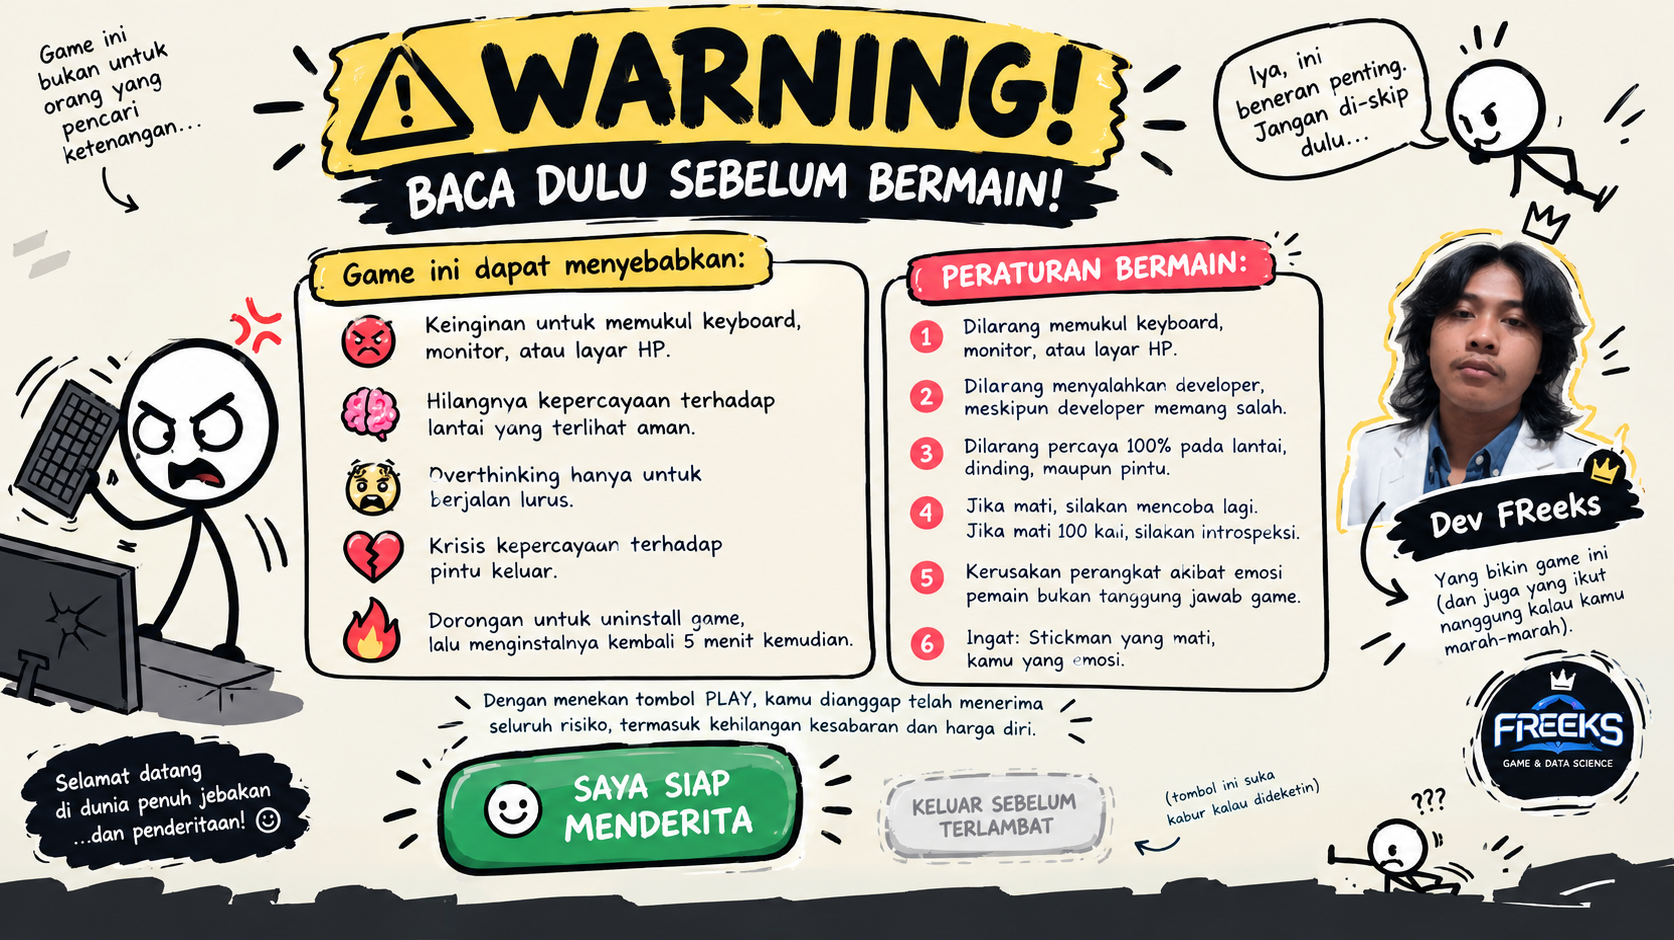
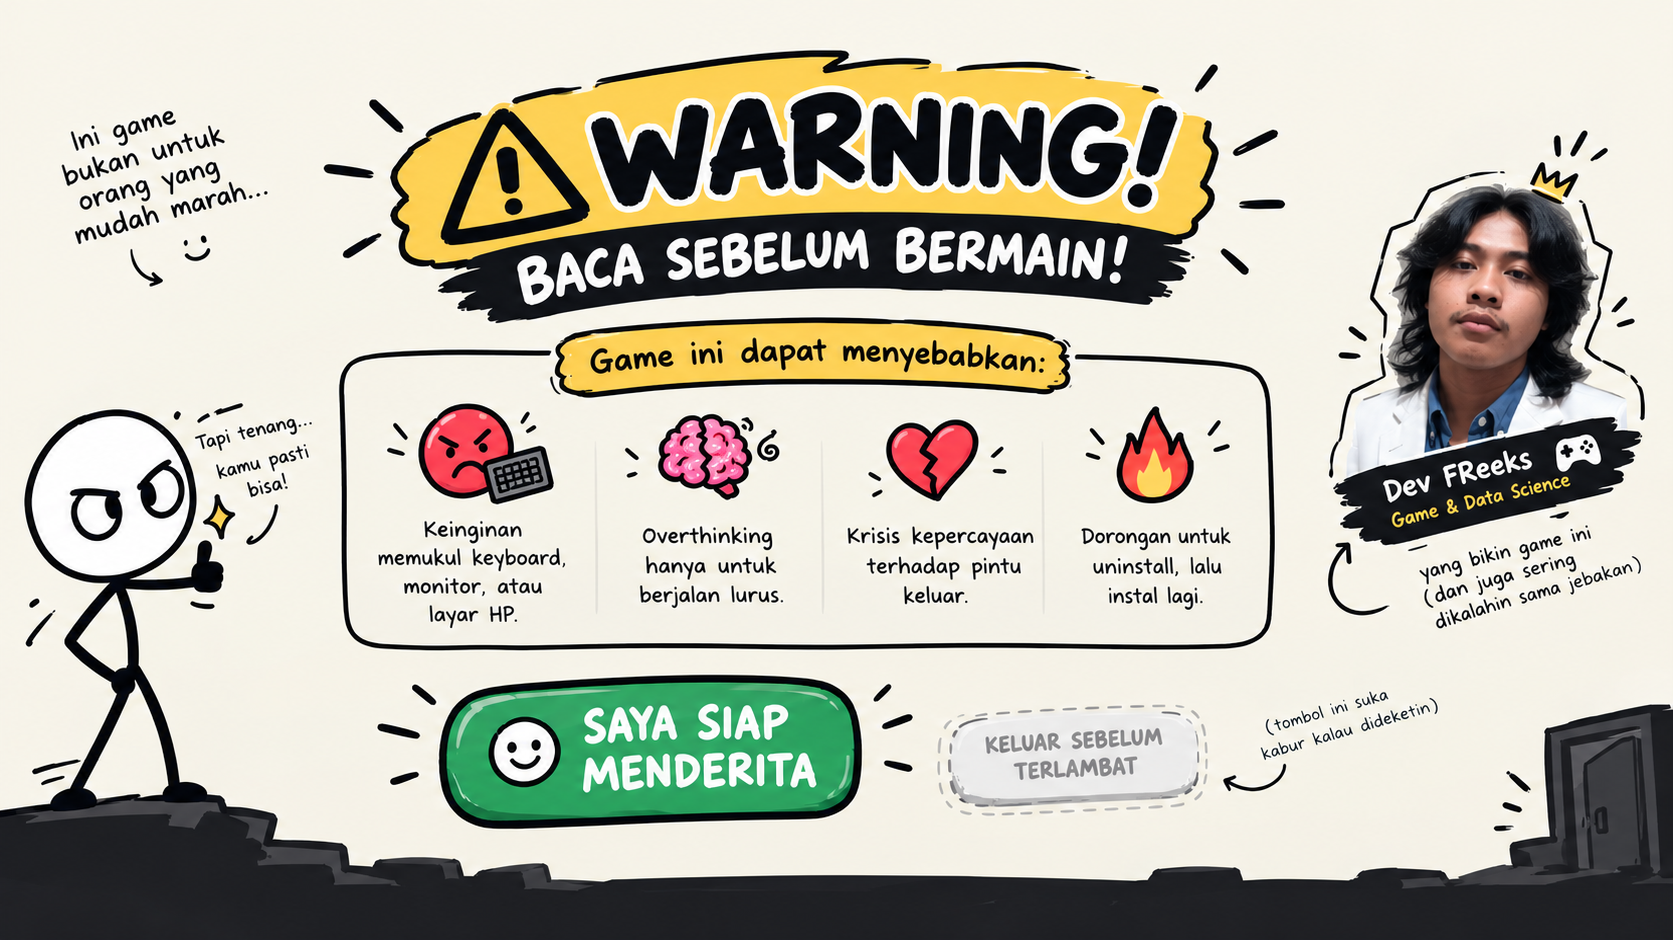
feat: perbarui aset dan tata letak tombol layar intro dengan gambar Peringatan Game Siap Menderita terbaru

diff --git a/src/scenes/IntroScene.ts b/src/scenes/IntroScene.ts
@@ -11,10 +11,10 @@ export class IntroScene {
   private timer = 0;
 
   // Tombol troll "KELUAR SEBELUM TERLAMBAT"
-  private escapeX = 508;
-  private escapeY = 442;
-  private escapeTargetX = 508;
-  private escapeTargetY = 442;
+  private escapeX = 518;
+  private escapeY = 404;
+  private escapeTargetX = 518;
+  private escapeTargetY = 404;
   private trollDodges = 0;
   private showTrollMessage = false;
   private trollMessageTimer = 0;
@@ -22,12 +22,12 @@ export class IntroScene {
   constructor(audio: AudioManager) {
     this.audio = audio;
     this.img = new Image();
-    this.img.src = '/intro.png';
+    this.img.src = encodeURI('/Peringatan Game_ Siap Menderita!.png');
     this.img.onload = () => {
       this.isLoaded = true;
     };
     this.img.onerror = () => {
-      this.img.src = '/Peringatan Game_ Siap Menderita_.png';
+      this.img.src = '/intro.png';
     };
   }
 
@@ -44,21 +44,21 @@ export class IntroScene {
       }
     }
 
-    // Efek troll: tombol "KELUAR SEBELUM TERLAMBAT" kabur saat kursor mendekat (< 65px)
-    const escapeCenterX = this.escapeX + 62;
-    const escapeCenterY = this.escapeY + 25;
+    // Efek troll: tombol "KELUAR SEBELUM TERLAMBAT" kabur saat kursor mendekat (< 75px)
+    const escapeCenterX = this.escapeX + 98;
+    const escapeCenterY = this.escapeY + 32;
     const dist = Math.hypot(pointerX - escapeCenterX, pointerY - escapeCenterY);
 
-    if (dist < 65) {
+    if (dist < 75) {
       const angles = [Math.PI * 0.25, Math.PI * 0.75, -Math.PI * 0.25, -Math.PI * 0.75, 0, Math.PI];
       const randomAngle = angles[Math.floor(Math.random() * angles.length)];
-      const jumpDist = 80 + Math.random() * 50;
+      const jumpDist = 90 + Math.random() * 60;
 
       let nextX = this.escapeX + Math.cos(randomAngle) * jumpDist;
       let nextY = this.escapeY + Math.sin(randomAngle) * jumpDist;
 
-      nextX = Math.max(480, Math.min(CONFIG.CANVAS_WIDTH - 150, nextX));
-      nextY = Math.max(370, Math.min(CONFIG.CANVAS_HEIGHT - 65, nextY));
+      nextX = Math.max(480, Math.min(CONFIG.CANVAS_WIDTH - 210, nextX));
+      nextY = Math.max(340, Math.min(CONFIG.CANVAS_HEIGHT - 80, nextY));
 
       this.escapeTargetX = nextX;
       this.escapeTargetY = nextY;
@@ -78,6 +78,8 @@ export class IntroScene {
     ctx.globalAlpha = this.alpha;
 
     if (this.isLoaded) {
+      ctx.imageSmoothingEnabled = true;
+      ctx.imageSmoothingQuality = 'high';
       ctx.drawImage(this.img, 0, 0, CONFIG.CANVAS_WIDTH, CONFIG.CANVAS_HEIGHT);
     } else {
       ctx.fillStyle = CONFIG.COLORS.BG_PAPER;
@@ -90,9 +92,9 @@ export class IntroScene {
     }
 
     // Highlight denyut halus di sekitar tombol "SAYA SIAP MENDERITA"
-    const btnReadyX = 245;
-    const btnReadyY = 420;
-    const btnReadyW = 215;
+    const btnReadyX = 254;
+    const btnReadyY = 390;
+    const btnReadyW = 236;
     const btnReadyH = 80;
 
     const isHoverReady = this.isHoveringReadyButton(pointerX, pointerY);
@@ -109,9 +111,9 @@ export class IntroScene {
     // Jika tombol kabur sudah berpindah posisi, tutupi posisi awal dan gambar tombol di posisi baru
     if (this.trollDodges > 0) {
       // Tutup posisi asal
-      ctx.fillStyle = '#f8f6f0';
+      ctx.fillStyle = '#f6f3eb';
       ctx.beginPath();
-      ctx.roundRect(508, 442, 125, 50, 14);
+      ctx.roundRect(518, 404, 196, 64, 16);
       ctx.fill();
 
       // Gambar tombol yang kabur di koordinat baru
@@ -120,16 +122,16 @@ export class IntroScene {
       ctx.strokeStyle = '#888';
       ctx.lineWidth = 2;
       ctx.beginPath();
-      ctx.roundRect(this.escapeX, this.escapeY, 125, 50, 14);
+      ctx.roundRect(this.escapeX, this.escapeY, 196, 64, 16);
       ctx.fill();
       ctx.stroke();
 
       ctx.fillStyle = '#333';
-      ctx.font = 'bold 11px Outfit, sans-serif';
+      ctx.font = 'bold 12px Outfit, sans-serif';
       ctx.textAlign = 'center';
       ctx.textBaseline = 'middle';
-      ctx.fillText('KELUAR SEBELUM', this.escapeX + 62, this.escapeY + 20);
-      ctx.fillText('TERLAMBAT', this.escapeX + 62, this.escapeY + 34);
+      ctx.fillText('KELUAR SEBELUM', this.escapeX + 98, this.escapeY + 26);
+      ctx.fillText('TERLAMBAT', this.escapeX + 98, this.escapeY + 44);
       ctx.restore();
     }
 
@@ -140,7 +142,7 @@ export class IntroScene {
       ctx.strokeStyle = '#18181c';
       ctx.lineWidth = 1.5;
       ctx.beginPath();
-      ctx.roundRect(this.escapeX - 10, this.escapeY - 32, 145, 26, 6);
+      ctx.roundRect(this.escapeX + 23, this.escapeY - 32, 150, 26, 6);
       ctx.fill();
       ctx.stroke();
 
@@ -148,7 +150,7 @@ export class IntroScene {
       ctx.font = 'bold 12px Outfit, sans-serif';
       ctx.textAlign = 'center';
       ctx.textBaseline = 'middle';
-      ctx.fillText('Eits, gak bisa kabur! 😜', this.escapeX + 62, this.escapeY - 18);
+      ctx.fillText('Eits, gak bisa kabur! 😜', this.escapeX + 98, this.escapeY - 18);
       ctx.restore();
     }
 
@@ -156,9 +158,9 @@ export class IntroScene {
   }
 
   public isHoveringReadyButton(px: number, py: number): boolean {
-    const btnReadyX = 245;
-    const btnReadyY = 420;
-    const btnReadyW = 215;
+    const btnReadyX = 254;
+    const btnReadyY = 390;
+    const btnReadyW = 236;
     const btnReadyH = 80;
     return px >= btnReadyX && px <= btnReadyX + btnReadyW &&
            py >= btnReadyY && py <= btnReadyY + btnReadyH;
